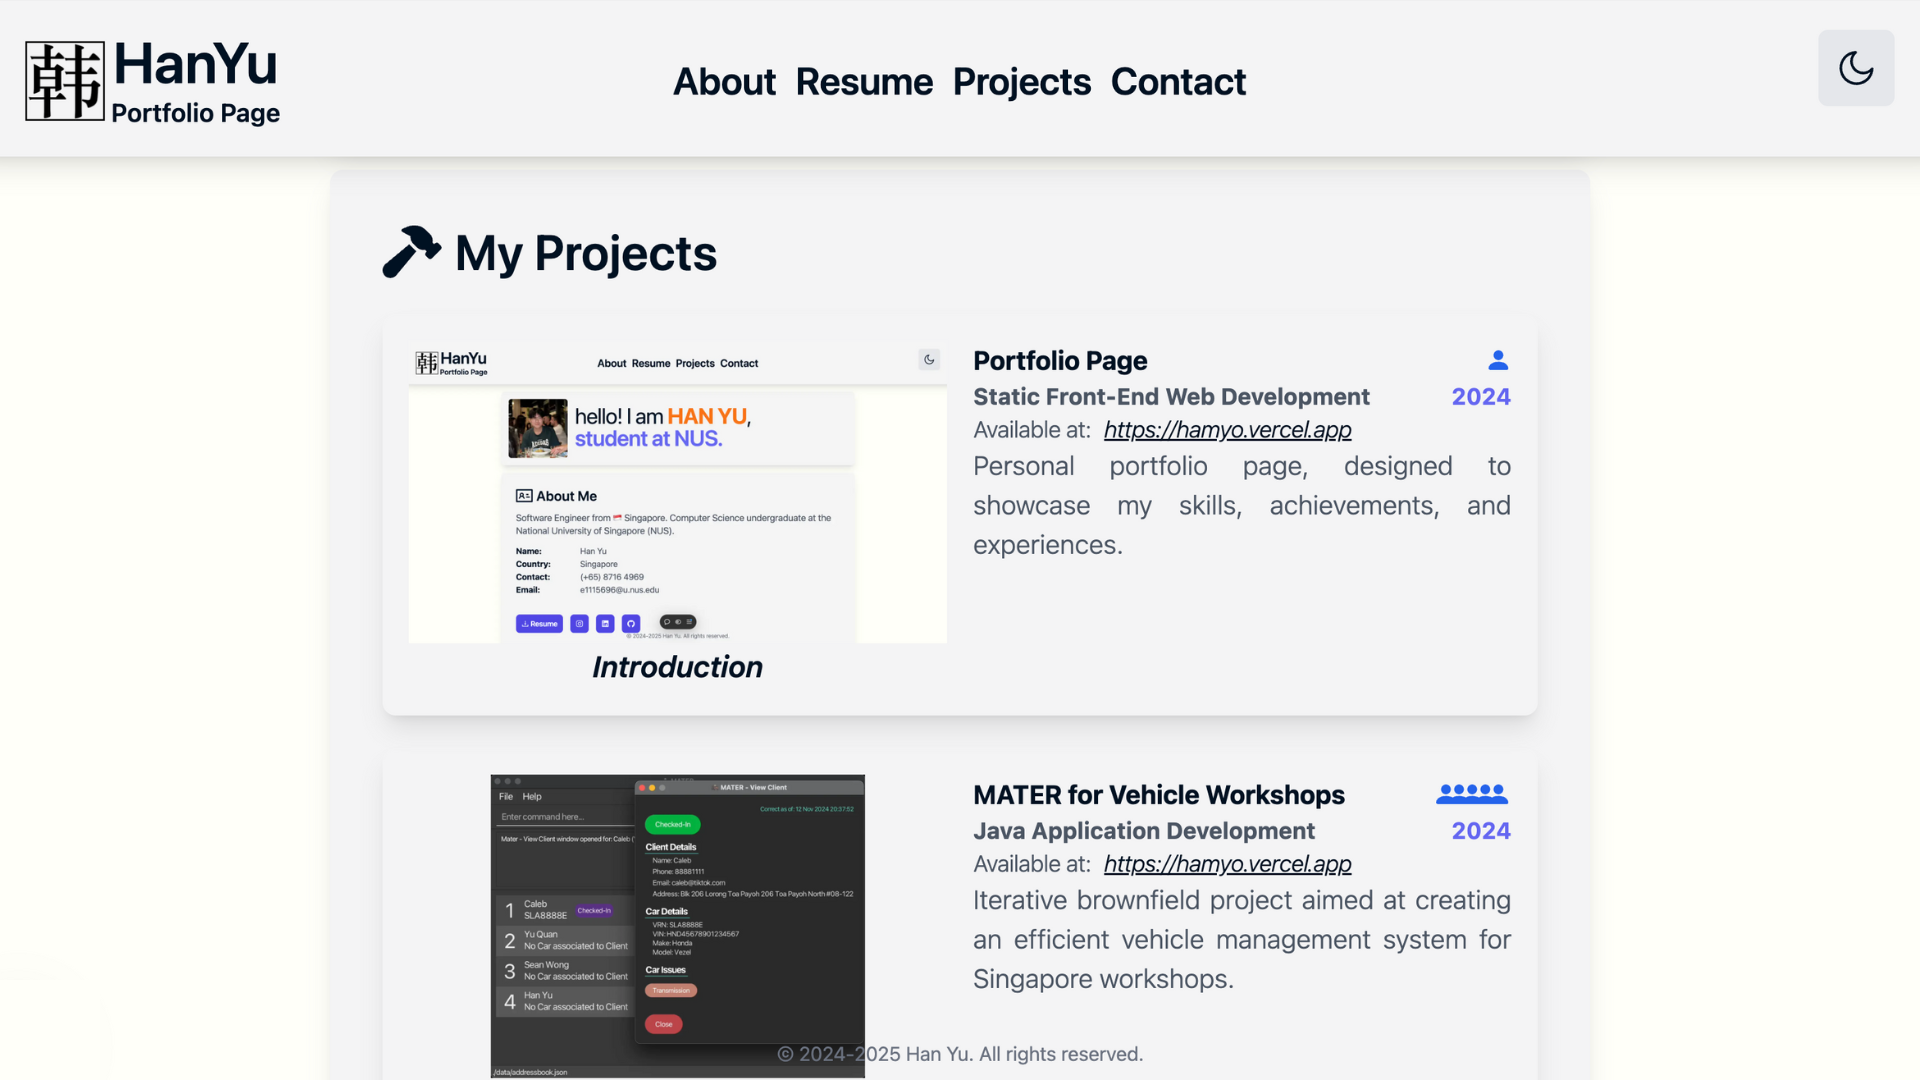
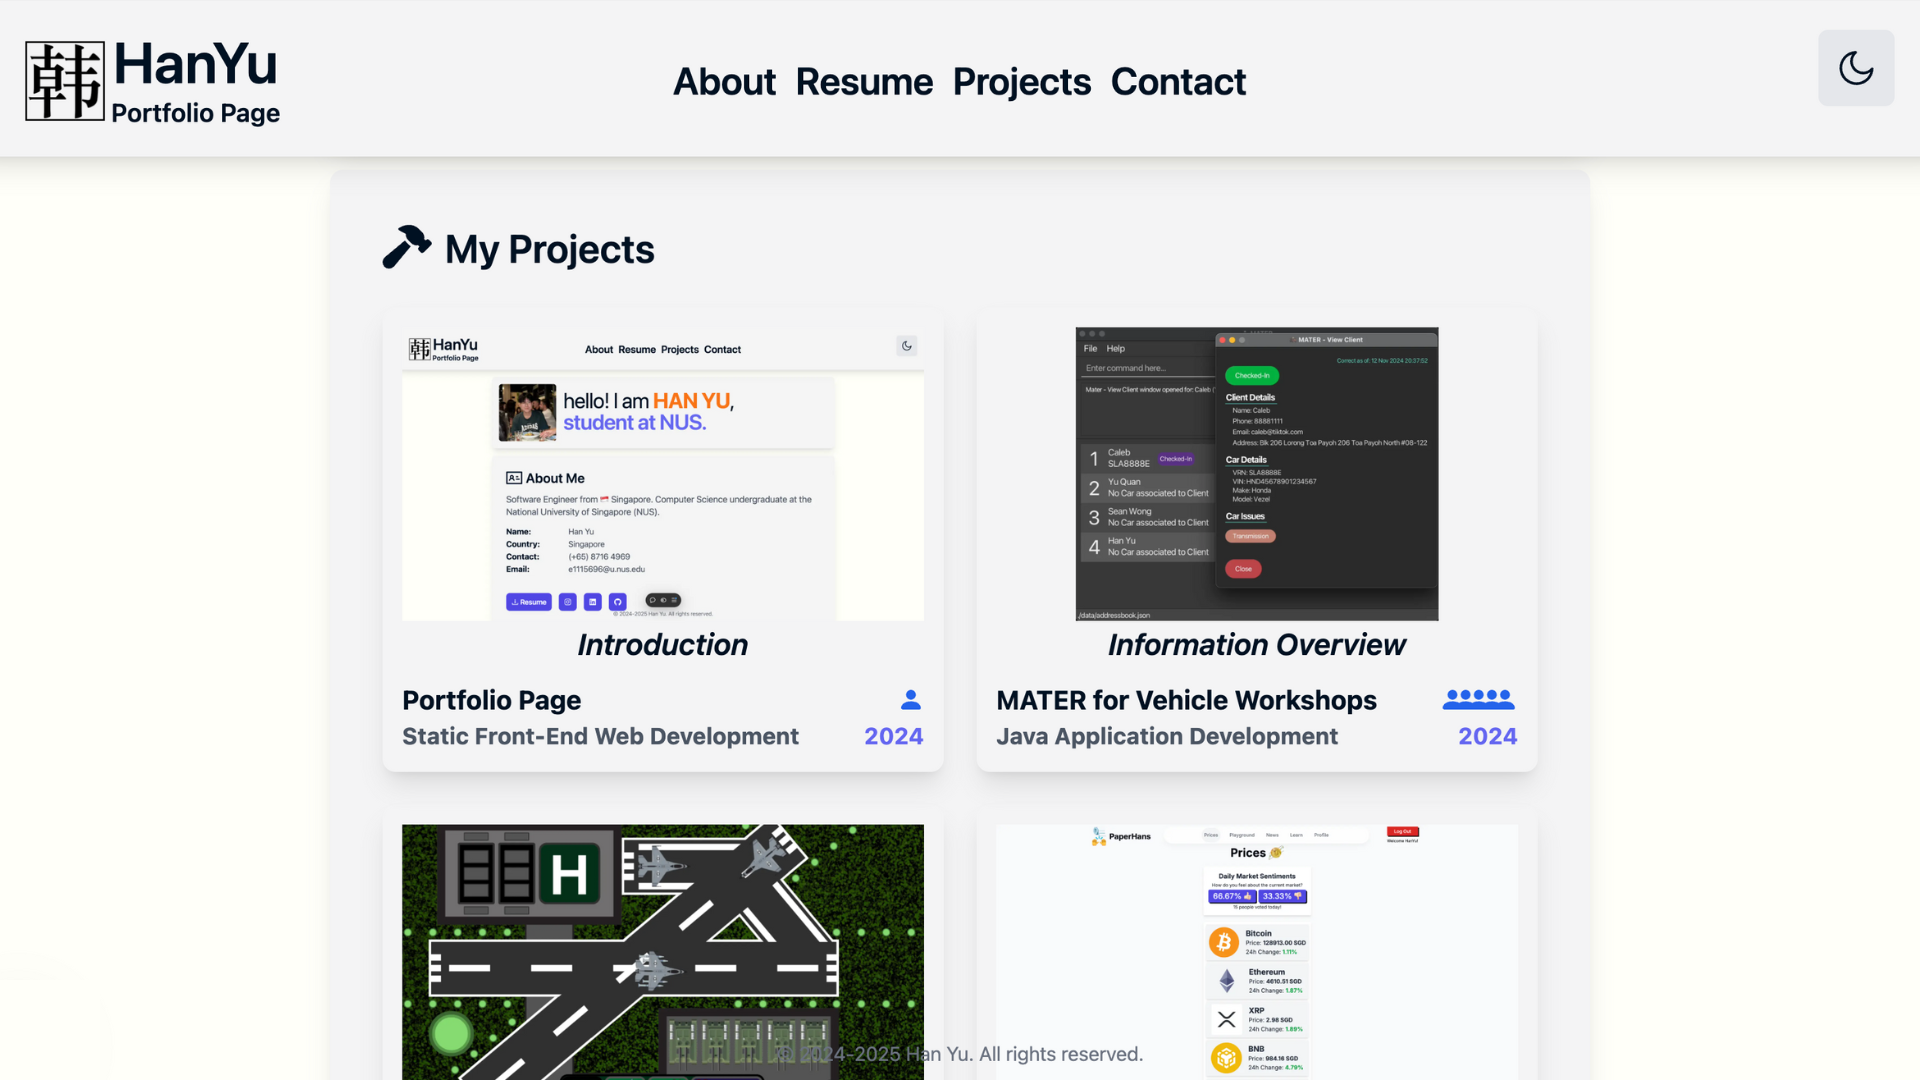
Update Project and Technology Containers

diff --git a/src/components/sections/Projects.tsx b/src/components/sections/Projects.tsx
@@ -15,86 +15,89 @@ export default function Projects() {
             My Projects
           </h1>
         </div>
-        <ProjectContainer
-          title="Portfolio Page"
-          date="2024"
-          type="Static Front-End Web Development"
-          images={[
-            <Image alt="logo" src="/images/projects/portfolioPage/portfolioPage1.png" width={1920} height={1080} className="w-full"/>,
-            <Image alt="logo" src="/images/projects/portfolioPage/portfolioPage2.png" width={1920} height={1080} className="w-full"/>,
-            <Image alt="logo" src="/images/projects/portfolioPage/portfolioPage3.png" width={1920} height={1080} className="w-full"/>,
-            <Image alt="logo" src="/images/projects/portfolioPage/portfolioPage4.png" width={1920} height={1080} className="w-full"/>
-          ]}
-          imageDescriptions={["Introduction", "Resume", "Projects", "Contact"]}
-        />
-        <ProjectContainer
-          title="MATER for Vehicle Workshops"
-          date="2024"
-          type="Java Application Development"
-          images={[
-            <Image alt="logo" src="/images/projects/mater/mater1.png" width={1920} height={1080} className="w-full"/>,
-            <Image alt="logo" src="/images/projects/mater/mater2.png" width={1920} height={1080} className="w-full"/>,
-            <Image alt="logo" src="/images/projects/mater/mater3.png" width={1920} height={1080} className="w-full"/>,
-          ]}
-          imageDescriptions={["Client Management", "Vehicle Management", "Information Overview"]}
-        />
-        <ProjectContainer
-          title="Raining Fire"
-          date="2024"
-          type="2D Game Development"
-          images={[
-            <Image alt="logo" src="/images/projects/rainingFire/rainingFire1.png" width={1920} height={1080} className="w-full"/>,
-            <Image alt="logo" src="/images/projects/rainingFire/rainingFire2.png" width={1920} height={1080} className="w-full"/>,
-            <Image alt="logo" src="/images/projects/rainingFire/rainingFire3.png" width={1920} height={1080} className="w-full"/>,
-            <Image alt="logo" src="/images/projects/rainingFire/rainingFire4.png" width={1920} height={1080} className="w-full"/>
-          ]}
-          imageDescriptions={[
-            "Resupply at Friendly Base",
-            "Player Plane Mechanics",
-            "Destroy Red Land Buildings",
-            "Enemy Base Mechanics"
-          ]}
-        />
-        <ProjectContainer
-          title="PaperHans"
-          date="2024"
-          type="Full-Stack Web Development"
-          images={[
-            <Image alt="logo" src="/images/projects/paperHans/paperHans1.png" width={1920} height={1080} className="w-full"/>,
-            <Image alt="logo" src="/images/projects/paperHans/paperHans2.png" width={1920} height={1080} className="w-full"/>,
-            <Image alt="logo" src="/images/projects/paperHans/paperHans3.png" width={1920} height={1080} className="w-full"/>,
-            <Image alt="logo" src="/images/projects/paperHans/paperHans4.png" width={1920} height={1080} className="w-full"/>,
-            <Image alt="logo" src="/images/projects/paperHans/paperHans5.png" width={1920} height={1080} className="w-full"/>,
-            <Image alt="logo" src="/images/projects/paperHans/paperHans6.png" width={1920} height={1080} className="w-full"/>
-          ]}
-          imageDescriptions={[
-            "Firebase Authentication",
-            "Profile & Achievements",
-            "Real-Time Prices & Sentiments",
-            "Lessons & Trivia",
-            "Playground Environment",
-            "News & Sentiment Analysis"
-          ]}
-          nCollaborators={2}
-        />
-        <ProjectContainer
-          title="HacX! Hack for Public Safety"
-          date="2023"
-          type="Full-Stack Web Development"
-          images={[
-            <Image alt="logo" src="/images/projects/hackX/hacX1.png" width={1920} height={1080} className="w-full"/>,
-            <Image alt="logo" src="/images/projects/hackX/hacX2.png" width={1920} height={1080} className="w-full"/>,
-            <Image alt="logo" src="/images/projects/hackX/hacX3.png" width={1920} height={1080} className="w-full"/>,
-            <Image alt="logo" src="/images/projects/hackX/hacX4.png" width={1920} height={1080} className="w-full"/>
-          ]}
-          imageDescriptions={[
-            "HacX! Grand Finals",
-            "HackX! Semi-Finals",
-            "Overview Dashboard",
-            "Inmate Vitals Dashboard"
-          ]}
-          nCollaborators={4}
-        />
+        <div className="grid grid-cols-1 md:grid-cols-2 gap-5">
+          <ProjectContainer
+            title="Portfolio Page"
+            date="2024"
+            type="Static Front-End Web Development"
+            images={[
+              <Image alt="logo" src="/images/projects/portfolioPage/portfolioPage1.png" width={1920} height={1080} className="w-full"/>,
+              <Image alt="logo" src="/images/projects/portfolioPage/portfolioPage2.png" width={1920} height={1080} className="w-full"/>,
+              <Image alt="logo" src="/images/projects/portfolioPage/portfolioPage3.png" width={1920} height={1080} className="w-full"/>,
+              <Image alt="logo" src="/images/projects/portfolioPage/portfolioPage4.png" width={1920} height={1080} className="w-full"/>
+            ]}
+            imageDescriptions={["Introduction", "Resume", "Projects", "Contact"]}
+          />
+          <ProjectContainer
+            title="MATER for Vehicle Workshops"
+            date="2024"
+            type="Java Application Development"
+            images={[
+              <Image alt="logo" src="/images/projects/mater/mater1.png" width={1920} height={1080} className="w-full"/>,
+              <Image alt="logo" src="/images/projects/mater/mater2.png" width={1920} height={1080} className="w-full"/>,
+              <Image alt="logo" src="/images/projects/mater/mater3.png" width={1920} height={1080} className="w-full"/>,
+            ]}
+            imageDescriptions={["Client Management", "Vehicle Management", "Information Overview"]}
+            nCollaborators={5}
+          />
+          <ProjectContainer
+            title="Raining Fire"
+            date="2024"
+            type="2D Game Development"
+            images={[
+              <Image alt="logo" src="/images/projects/rainingFire/rainingFire1.png" width={1920} height={1080} className="w-full"/>,
+              <Image alt="logo" src="/images/projects/rainingFire/rainingFire2.png" width={1920} height={1080} className="w-full"/>,
+              <Image alt="logo" src="/images/projects/rainingFire/rainingFire3.png" width={1920} height={1080} className="w-full"/>,
+              <Image alt="logo" src="/images/projects/rainingFire/rainingFire4.png" width={1920} height={1080} className="w-full"/>
+            ]}
+            imageDescriptions={[
+              "Resupply at Friendly Base",
+              "Player Plane Mechanics",
+              "Destroy Red Land Buildings",
+              "Enemy Base Mechanics"
+            ]}
+          />
+          <ProjectContainer
+            title="PaperHans"
+            date="2024"
+            type="Full-Stack Web Development"
+            images={[
+              <Image alt="logo" src="/images/projects/paperHans/paperHans1.png" width={1920} height={1080} className="w-full"/>,
+              <Image alt="logo" src="/images/projects/paperHans/paperHans2.png" width={1920} height={1080} className="w-full"/>,
+              <Image alt="logo" src="/images/projects/paperHans/paperHans3.png" width={1920} height={1080} className="w-full"/>,
+              <Image alt="logo" src="/images/projects/paperHans/paperHans4.png" width={1920} height={1080} className="w-full"/>,
+              <Image alt="logo" src="/images/projects/paperHans/paperHans5.png" width={1920} height={1080} className="w-full"/>,
+              <Image alt="logo" src="/images/projects/paperHans/paperHans6.png" width={1920} height={1080} className="w-full"/>
+            ]}
+            imageDescriptions={[
+              "Firebase Authentication",
+              "Profile & Achievements",
+              "Real-Time Prices & Sentiments",
+              "Lessons & Trivia",
+              "Playground Environment",
+              "News & Sentiment Analysis"
+            ]}
+            nCollaborators={2}
+          />
+          <ProjectContainer
+            title="HacX! Hack for Public Safety"
+            date="2023"
+            type="Full-Stack Web Development"
+            images={[
+              <Image alt="logo" src="/images/projects/hackX/hacX1.png" width={1920} height={1080} className="w-full"/>,
+              <Image alt="logo" src="/images/projects/hackX/hacX2.png" width={1920} height={1080} className="w-full"/>,
+              <Image alt="logo" src="/images/projects/hackX/hacX3.png" width={1920} height={1080} className="w-full"/>,
+              <Image alt="logo" src="/images/projects/hackX/hacX4.png" width={1920} height={1080} className="w-full"/>
+            ]}
+            imageDescriptions={[
+              "HacX! Grand Finals",
+              "HackX! Semi-Finals",
+              "Overview Dashboard",
+              "Inmate Vitals Dashboard"
+            ]}
+            nCollaborators={4}
+          />
+        </div>
       </div>
       <div className="h-2"></div>
     </div>

diff --git a/src/components/sections/Resume.tsx b/src/components/sections/Resume.tsx
@@ -125,38 +125,67 @@ export default function Resume() {
         <h1 className="text-center text-2xl">
           Technology Stack
         </h1>
-        <ResumeTechnologyContainer
-          icon1={<FaJava />}
-          technology1="Java"
-          icon2={<FaPython />}
-          technology2="Python"
-          icon3={<IoLogoJavascript />}
-          technology3="JavaScript"
-        />
-        <ResumeTechnologyContainer
-          icon1={<SiTypescript />}
-          technology1="TypeScript"
-          icon2={<FaHtml5 />}
-          technology2="HMTL"
-          icon3={<FaCss3Alt />}
-          technology3="CSS"
-        />
-        <ResumeTechnologyContainer
-          icon1={<SiTailwindcss />}
-          technology1="Tailwind CSS"
-          icon2={<FaReact />}
-          technology2="React"
-          icon3={<SiNextdotjs />}
-          technology3="Next.js"
-        />
-        <ResumeTechnologyContainer
-          icon1={<IoLogoFirebase />}
-          technology1="Firebase"
-          icon2={<FaDatabase />}
-          technology2="SQL"
-          icon3={<FaGitAlt />}
-          technology3="Git"
-        />
+
+        <div className="flex justify-center">
+          <div className="grid grid-cols-3 gap-3 md:w-[32rem] justify-items-center">
+            {/* Row 1 */}
+            <ResumeTechnologyContainer
+              icon={<FaJava />}
+              technology="Java"
+            />
+            <ResumeTechnologyContainer
+              icon={<FaPython />}
+              technology="Python"
+              />
+            <ResumeTechnologyContainer
+              icon={<IoLogoJavascript />}
+              technology="JavaScript"
+            />
+
+            {/* Row 2 */}
+            <ResumeTechnologyContainer
+              icon={<SiTypescript />}
+              technology="TypeScript"
+            />
+            <ResumeTechnologyContainer
+              icon={<FaHtml5 />}
+              technology="HMTL"
+            />
+            <ResumeTechnologyContainer
+              icon={<FaCss3Alt />}
+              technology="CSS"
+            />
+
+            {/* Row 3 */}
+            <ResumeTechnologyContainer
+              icon={<SiTailwindcss />}
+              technology="Tailwind CSS"
+            />
+            <ResumeTechnologyContainer
+              icon={<FaReact />}
+              technology="React"
+            />
+            <ResumeTechnologyContainer
+              icon={<SiNextdotjs />}
+              technology="Next.js"
+            />
+
+            {/* Row 4 */}
+            <ResumeTechnologyContainer
+              icon={<IoLogoFirebase />}
+              technology="Firebase"
+            />
+            <ResumeTechnologyContainer
+              icon={<FaDatabase />}
+              technology="SQL"
+            />
+            <ResumeTechnologyContainer
+              icon={<FaGitAlt />}
+              technology="Git"
+            />
+          </div>
+        </div>
+
         <h2 className="text-center font-light text-gray-600 dark:text-gray-300">
           and many more!
         </h2>

diff --git a/src/components/sections/ResumeTechnologyContainer.tsx b/src/components/sections/ResumeTechnologyContainer.tsx
@@ -2,40 +2,18 @@
 import { ReactNode } from "react";
 
 interface ResumeTechnologyContainerProps {
-  icon1: ReactNode;
-  technology1: string;
-  icon2: ReactNode;
-  technology2: string;
-  icon3: ReactNode;
-  technology3: string;
+  icon: ReactNode;
+  technology: string;
 }
-const ResumeTechnologyContainer: React.FC<ResumeTechnologyContainerProps> = ({ icon1, technology1, icon2, technology2, icon3, technology3 }) => {
+const ResumeTechnologyContainer: React.FC<ResumeTechnologyContainerProps> = ({ icon, technology }) => {
   return (
-    <div className="flex flex-row items-center justify-center space-x-4 md:space-x-6 font-bold text-sm md:text-2xl">
-      <div className="flex flex-col items-center justify-center rounded-lg space-y-4 w-[25vw] h-[20vw] md:w-[14rem] md:h-[11rem] hover:scale-[1.05] shadow-lg dark:shadow-gray-500 dark:shadow-md transition-all duration-200 ease-in-out dark:bg-gradient-to-r dark:from-gray-600 dark:via-gray-700 dark:to-gray-800">
-        <div className="text-3xl md:text-5xl">
-          {icon1}
-        </div>
-        <h4>
-          {technology1}
-        </h4>
+    <div className="flex flex-col items-center justify-center rounded-lg font-bold text-sm md:text-xl w-[25vw] h-[20vw] md:w-[10rem] md:h-[7rem] hover:scale-[1.05] shadow-lg dark:shadow-gray-500 dark:shadow-md transition-all duration-200 ease-in-out dark:bg-gradient-to-r dark:from-gray-600 dark:via-gray-700 dark:to-gray-800">
+      <div className="text-3xl md:text-5xl">
+        {icon}
       </div>
-      <div className="flex flex-col items-center justify-center rounded-lg space-y-4 w-[25vw] h-[20vw] md:w-[14rem] md:h-[11rem] hover:scale-[1.05] shadow-lg dark:shadow-gray-500 dark:shadow-md transition-all duration-200 ease-in-out dark:bg-gradient-to-r dark:bg-gray-800">
-        <div className="text-3xl md:text-5xl">
-          {icon2}
-        </div>
-        <h4>
-          {technology2}
-        </h4>
-      </div>
-      <div className="flex flex-col items-center justify-center rounded-lg space-y-4 w-[25vw] h-[20vw] md:w-[14rem] md:h-[11rem] hover:scale-[1.05] shadow-lg dark:shadow-gray-500 dark:shadow-md transition-all duration-200 ease-in-out dark:bg-gradient-to-r dark:from-gray-800 dark:via-gray-700 dark:to-gray-600">
-        <div className="text-3xl md:text-5xl">
-          {icon3}
-        </div>
-        <h4>
-          {technology3}
-        </h4>
-      </div>
+      <h4>
+        {technology}
+      </h4>
     </div>
   );
 }

diff --git a/src/components/sections/ProjectContainer.tsx b/src/components/sections/ProjectContainer.tsx
@@ -59,7 +59,7 @@ const ProjectContainer: React.FC<ProjectContainerProps> = ({ title, date, type, 
       <div className="flex flex-col">
 
         {/* Title and Collaborators */}
-        <div className="flex flex-row text-md md:text-xl justify-between font-bold">
+        <div className="flex flex-row text-md justify-between font-bold">
           <h1>
             {title}
           </h1>
@@ -76,7 +76,7 @@ const ProjectContainer: React.FC<ProjectContainerProps> = ({ title, date, type, 
         </div>
 
         {/* Project Type and Date */}
-        <div className="flex text-sm md:text-lg flex-row justify-between font-bold">
+        <div className="flex text-sm flex-row justify-between font-bold">
           <h1 className="text-gray-600 dark:text-gray-300">
             {type}
           </h1>
@@ -87,7 +87,7 @@ const ProjectContainer: React.FC<ProjectContainerProps> = ({ title, date, type, 
 
         {/* Link (if any) */}
         {link && (
-          <div className="flex flex-row space-x-1 md:space-x-2 font-light text-sm md:text-lg tracking-tight">
+          <div className="flex flex-row space-x-1 font-light text-sm md:text-lg tracking-tight">
             <h1 className="text-gray-600 dark:text-gray-300">
               Available at:
             </h1>

diff --git a/src/components/sections/ResumeContainer.tsx b/src/components/sections/ResumeContainer.tsx
@@ -19,7 +19,7 @@ const ResumeContainer: React.FC<ResumeContainerProps> = ({ icon, date, title, en
         <h1 className="text-indigo-500 font-bold">{date}</h1>
         <h2 className="font-bold text-lg md:text-xl">{title}</h2>
         <h3 className="font-bold italic">{entity}</h3>
-        <h4 className="text-justify font-light text-gray-600 dark:text-gray-300">{content}</h4>
+        <h4 className="font-light text-gray-600 dark:text-gray-300">{content}</h4>
       </div>
     </div>
   );
